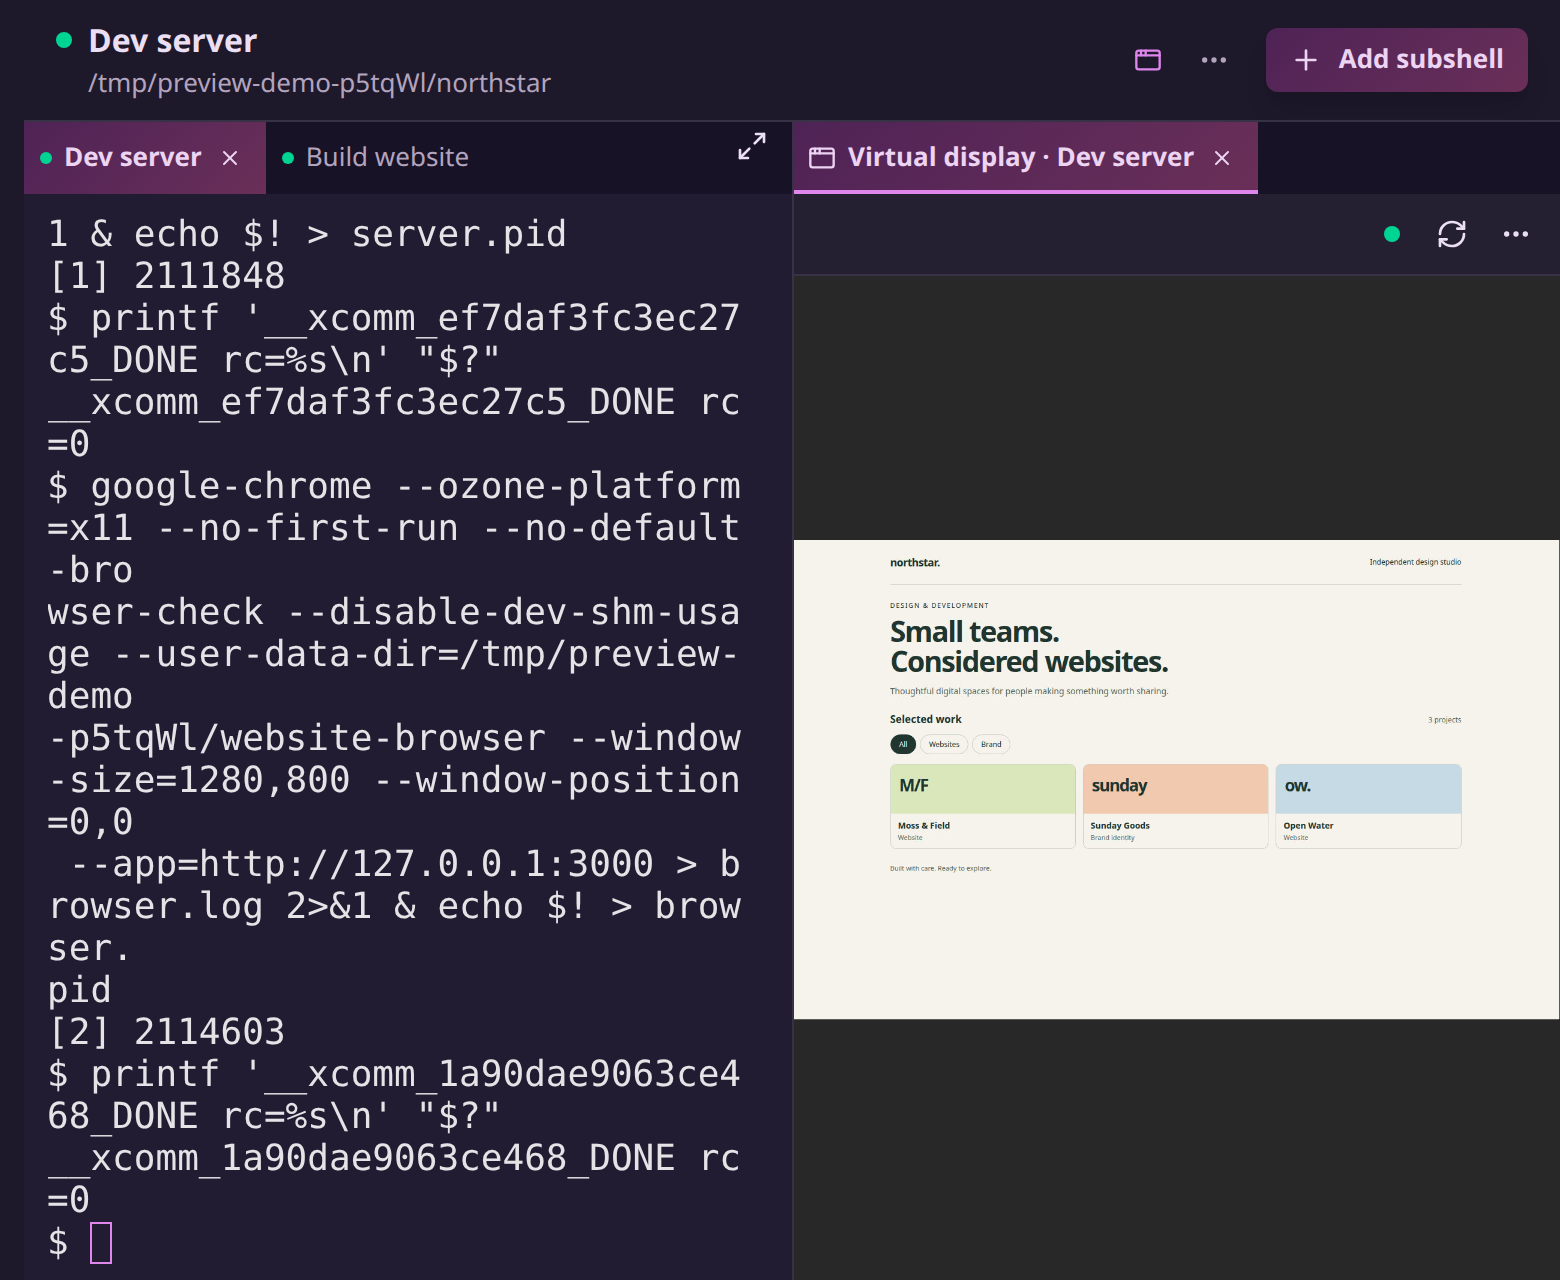
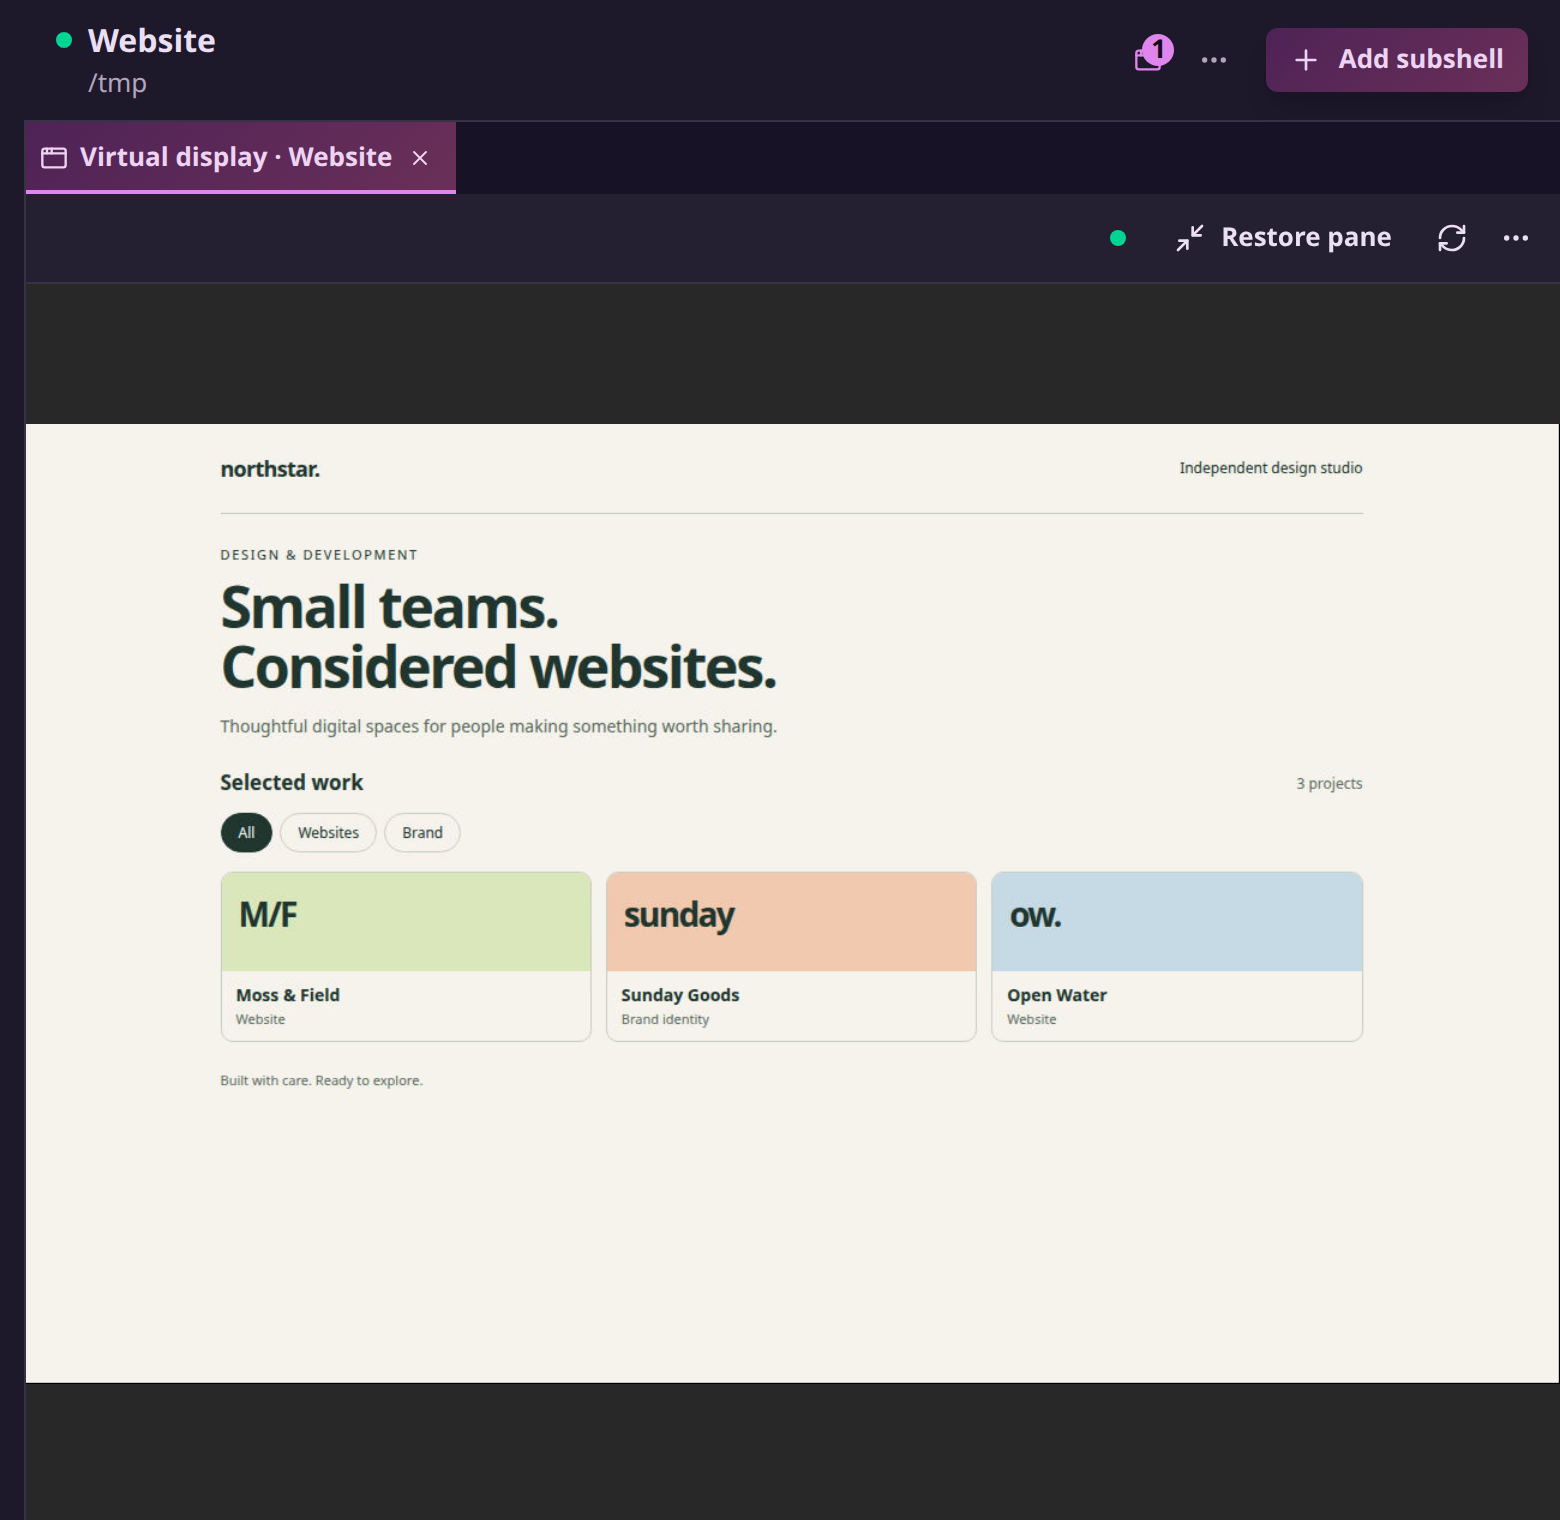
feat(website): showcase virtual displays and macOS setup

diff --git a/apps/website/components/virtual-display-showcase.tsx b/apps/website/components/virtual-display-showcase.tsx
@@ -1,0 +1,112 @@
+import Image from "next/image";
+
+/** Real display and helper screenshots shared with the setup documentation. */
+export function VirtualDisplayShowcase() {
+  return (
+    <section
+      id="virtual-displays"
+      aria-labelledby="virtual-displays-heading"
+      className="mx-auto mb-12 mt-8 w-full max-w-[1220px] border-t border-[var(--hairline)] pt-10"
+    >
+      <div className="grid items-center gap-8 lg:grid-cols-[.8fr_1.5fr] lg:gap-14">
+        <div>
+          <p className="font-mono text-[12px] uppercase tracking-[.12em] text-[var(--orchid)]">Virtual displays</p>
+          <h2
+            id="virtual-displays-heading"
+            className="mt-3 text-[28px] font-semibold leading-tight tracking-[-.035em] sm:text-[36px]"
+          >
+            Open a screen alongside your agent.
+          </h2>
+          <p className="mt-5 max-w-[44ch] text-[15px] leading-[1.8] text-[var(--dim)]">
+            Run a browser or graphical app on your node, then view and control its screen from the same workspace. Check
+            the result and give your agent feedback without switching machines.
+          </p>
+          <p className="mt-4 max-w-[44ch] text-[15px] leading-[1.8] text-[var(--dim)]">
+            On Linux, give a subshell its own virtual display. On macOS, use BetterDisplay with Subshell Display Helper,
+            included in both desktop apps.
+          </p>
+          <a
+            href="https://docs.subshell.sh/guides/preview#use-a-virtual-display-on-linux"
+            className="mt-5 inline-block text-[14px] text-[var(--orchid)] underline underline-offset-4 hover:text-[var(--frost)]"
+          >
+            Set up a Linux virtual display →
+          </a>
+        </div>
+        <DisplayScreenshot
+          name="virtual-display"
+          width={1560}
+          height={1520}
+          alt="A maximized Virtual display tab showing the Northstar sample website in a browser on the node"
+          caption="A browser running on a Linux node, controlled from its virtual-display tab."
+        />
+      </div>
+      <div className="mt-10 grid items-center gap-8 lg:grid-cols-[1.5fr_.8fr] lg:gap-14">
+        <div className="lg:col-start-2 lg:row-start-1">
+          <h3 className="text-[22px] font-semibold leading-tight tracking-[-.025em]">Set up your Mac once.</h3>
+          <p className="mt-4 max-w-[44ch] text-[15px] leading-[1.8] text-[var(--dim)]">
+            Install BetterDisplay, then open Virtual Displays in Subshell Client or Subshell Server. Enable the helper
+            and grant Screen Recording and Accessibility permissions on that Mac.
+          </p>
+          <p className="mt-4 max-w-[44ch] text-[14px] leading-[1.8] text-[var(--dim)]">
+            Mac virtual screens share your desktop, keyboard focus, and pointer. Move the app onto the virtual screen
+            before opening its viewer.
+          </p>
+          <a
+            href="https://docs.subshell.sh/nodes/manage#macos-display-helper"
+            className="mt-5 inline-block text-[14px] text-[var(--orchid)] underline underline-offset-4 hover:text-[var(--frost)]"
+          >
+            Follow the macOS setup guide →
+          </a>
+        </div>
+        <div className="lg:col-start-1 lg:row-start-1">
+          <DisplayScreenshot
+            name="macos-virtual-display-setup"
+            width={2080}
+            height={1520}
+            alt="The desktop assistant's Virtual Displays page with setup instructions and Open Display Helper settings"
+            caption="Both desktop apps guide you through enabling the helper on your Mac."
+          />
+        </div>
+      </div>
+    </section>
+  );
+}
+
+function DisplayScreenshot({
+  name,
+  width,
+  height,
+  alt,
+  caption,
+}: {
+  name: string;
+  width: number;
+  height: number;
+  alt: string;
+  caption: string;
+}) {
+  return (
+    <figure className="m-0 min-w-0">
+      <a
+        href={`/shots/${name}.webp`}
+        target="_blank"
+        rel="noreferrer"
+        aria-label={`Enlarge screenshot: ${caption}`}
+        className="block overflow-hidden rounded-lg border border-[var(--screenshot-border)] bg-[var(--screenshot-background)] focus-visible:outline-2 focus-visible:outline-offset-4 focus-visible:outline-[var(--orchid)]"
+      >
+        <Image
+          src={`/shots/${name}.webp`}
+          alt={alt}
+          width={width}
+          height={height}
+          unoptimized
+          loading="lazy"
+          className="block h-auto w-full"
+        />
+      </a>
+      <figcaption className="mt-3 text-[12px] leading-relaxed text-[var(--dim)]">
+        {caption} Select to enlarge.
+      </figcaption>
+    </figure>
+  );
+}

diff --git a/e2e/capture-preview-demo.ts b/e2e/capture-preview-demo.ts
@@ -55,6 +55,11 @@ try {
   expect((await api.patch("/api/setup/progress", { data: { step: null } })).ok()).toBe(true);
   expect((await api.patch("/api/settings", { data: { instanceName: "Northstar Studio" } })).ok()).toBe(true);
   expect((await api.put("/api/nodes/local/views-enabled", { data: { on: true } })).ok()).toBe(true);
+  if (!securityOnly) {
+    expect((await api.put("/api/nodes/local/views-enabled", { data: { on: true, feature: "display" } })).ok()).toBe(
+      true,
+    );
+  }
   const shellPreset = await post("/api/presets", {
     harnessId: "terminal",
     name: "Website development",
@@ -265,6 +270,9 @@ try {
     await page.getByRole("button", { name: "View screen" }).click();
     await expect(page.getByRole("button", { name: "Connected", exact: true })).toBeVisible();
     await hold(3);
+    await page.getByRole("button", { name: "More view actions" }).click();
+    await page.getByRole("menuitem", { name: "Maximize pane" }).click();
+    await hold(1);
     dimensions["preview-display"] = await captureScreenshot(
       page,
       path.join(shots, "preview-display.png"),

diff --git a/apps/website/app/page.tsx b/apps/website/app/page.tsx
@@ -4,6 +4,7 @@ import { HeroSpread } from "../components/hero-spread";
 import { PreviewShowcase } from "../components/preview-showcase";
 import { SiteFooter } from "../components/site-footer";
 import { SiteHeader } from "../components/site-header";
+import { VirtualDisplayShowcase } from "../components/virtual-display-showcase";
 import releases from "../data/releases.json";
 import type { ReleasesManifest } from "../lib/releases";
 
@@ -13,6 +14,7 @@ export default function Home() {
       <SiteHeader />
       <HeroSpread manifest={releases as ReleasesManifest} />
       <PreviewShowcase />
+      <VirtualDisplayShowcase />
       <FeatureShowcase />
       <div className="mt-3">
         <SiteFooter />

diff --git a/apps/server/web/src/components/nodes/node-ssh-card.tsx b/apps/server/web/src/components/nodes/node-ssh-card.tsx
@@ -37,7 +37,7 @@ export function NodeSshCard({ node, children }: { node: NodeDetail; children?: R
               : "Turning this on allows SSH connections from this node and lets it provide keys to other nodes through Subshell. It doesn't enable incoming SSH access to this machine."}
           </p>
         ) : (
-          <p className="text-detail text-muted-foreground">
+          <p className="text-detail text-warning">
             {node.kind === "local"
               ? "An admin can change this setting."
               : "Only this node’s owner can change this setting."}

diff --git a/apps/website/AGENTS.md b/apps/website/AGENTS.md
@@ -162,3 +162,12 @@ Preview guide in the same pass. `--security-only` checks embedded and direct
 app browser isolation, modules, JSON POST, and WebSocket traffic without an
 agent or display. Fixed backend/registry/IdP ports honor the normal e2e overrides.
 Never record the developer's private test account, hostnames, or project.
+
+### Virtual-display screenshots
+
+`VirtualDisplayShowcase` follows the website preview demo and links to the Linux
+and macOS setup guides. Its lossless WebP images in `public/shots/` come from the
+docs site's `preview-display.png` and `assistant-virtual-displays.png`. Refresh
+both sites together, keep the image dimensions in sync, and retain the real
+virtual-display tab and helper controls. The display capture uses the maximized
+viewer so setup commands do not obscure the app being demonstrated.

diff --git a/.changeset/website-virtual-displays.md b/.changeset/website-virtual-displays.md
@@ -1,0 +1,8 @@
+---
+"@internal/website": patch
+"@internal/docs": patch
+"@internal/server": patch
+"@internal/desktop-server": patch
+---
+
+Add a virtual-display section to the website with screenshots and Linux and macOS setup links. Refresh the display screenshot in the guide, and show SSH owner-only restrictions in gold like other node settings.
